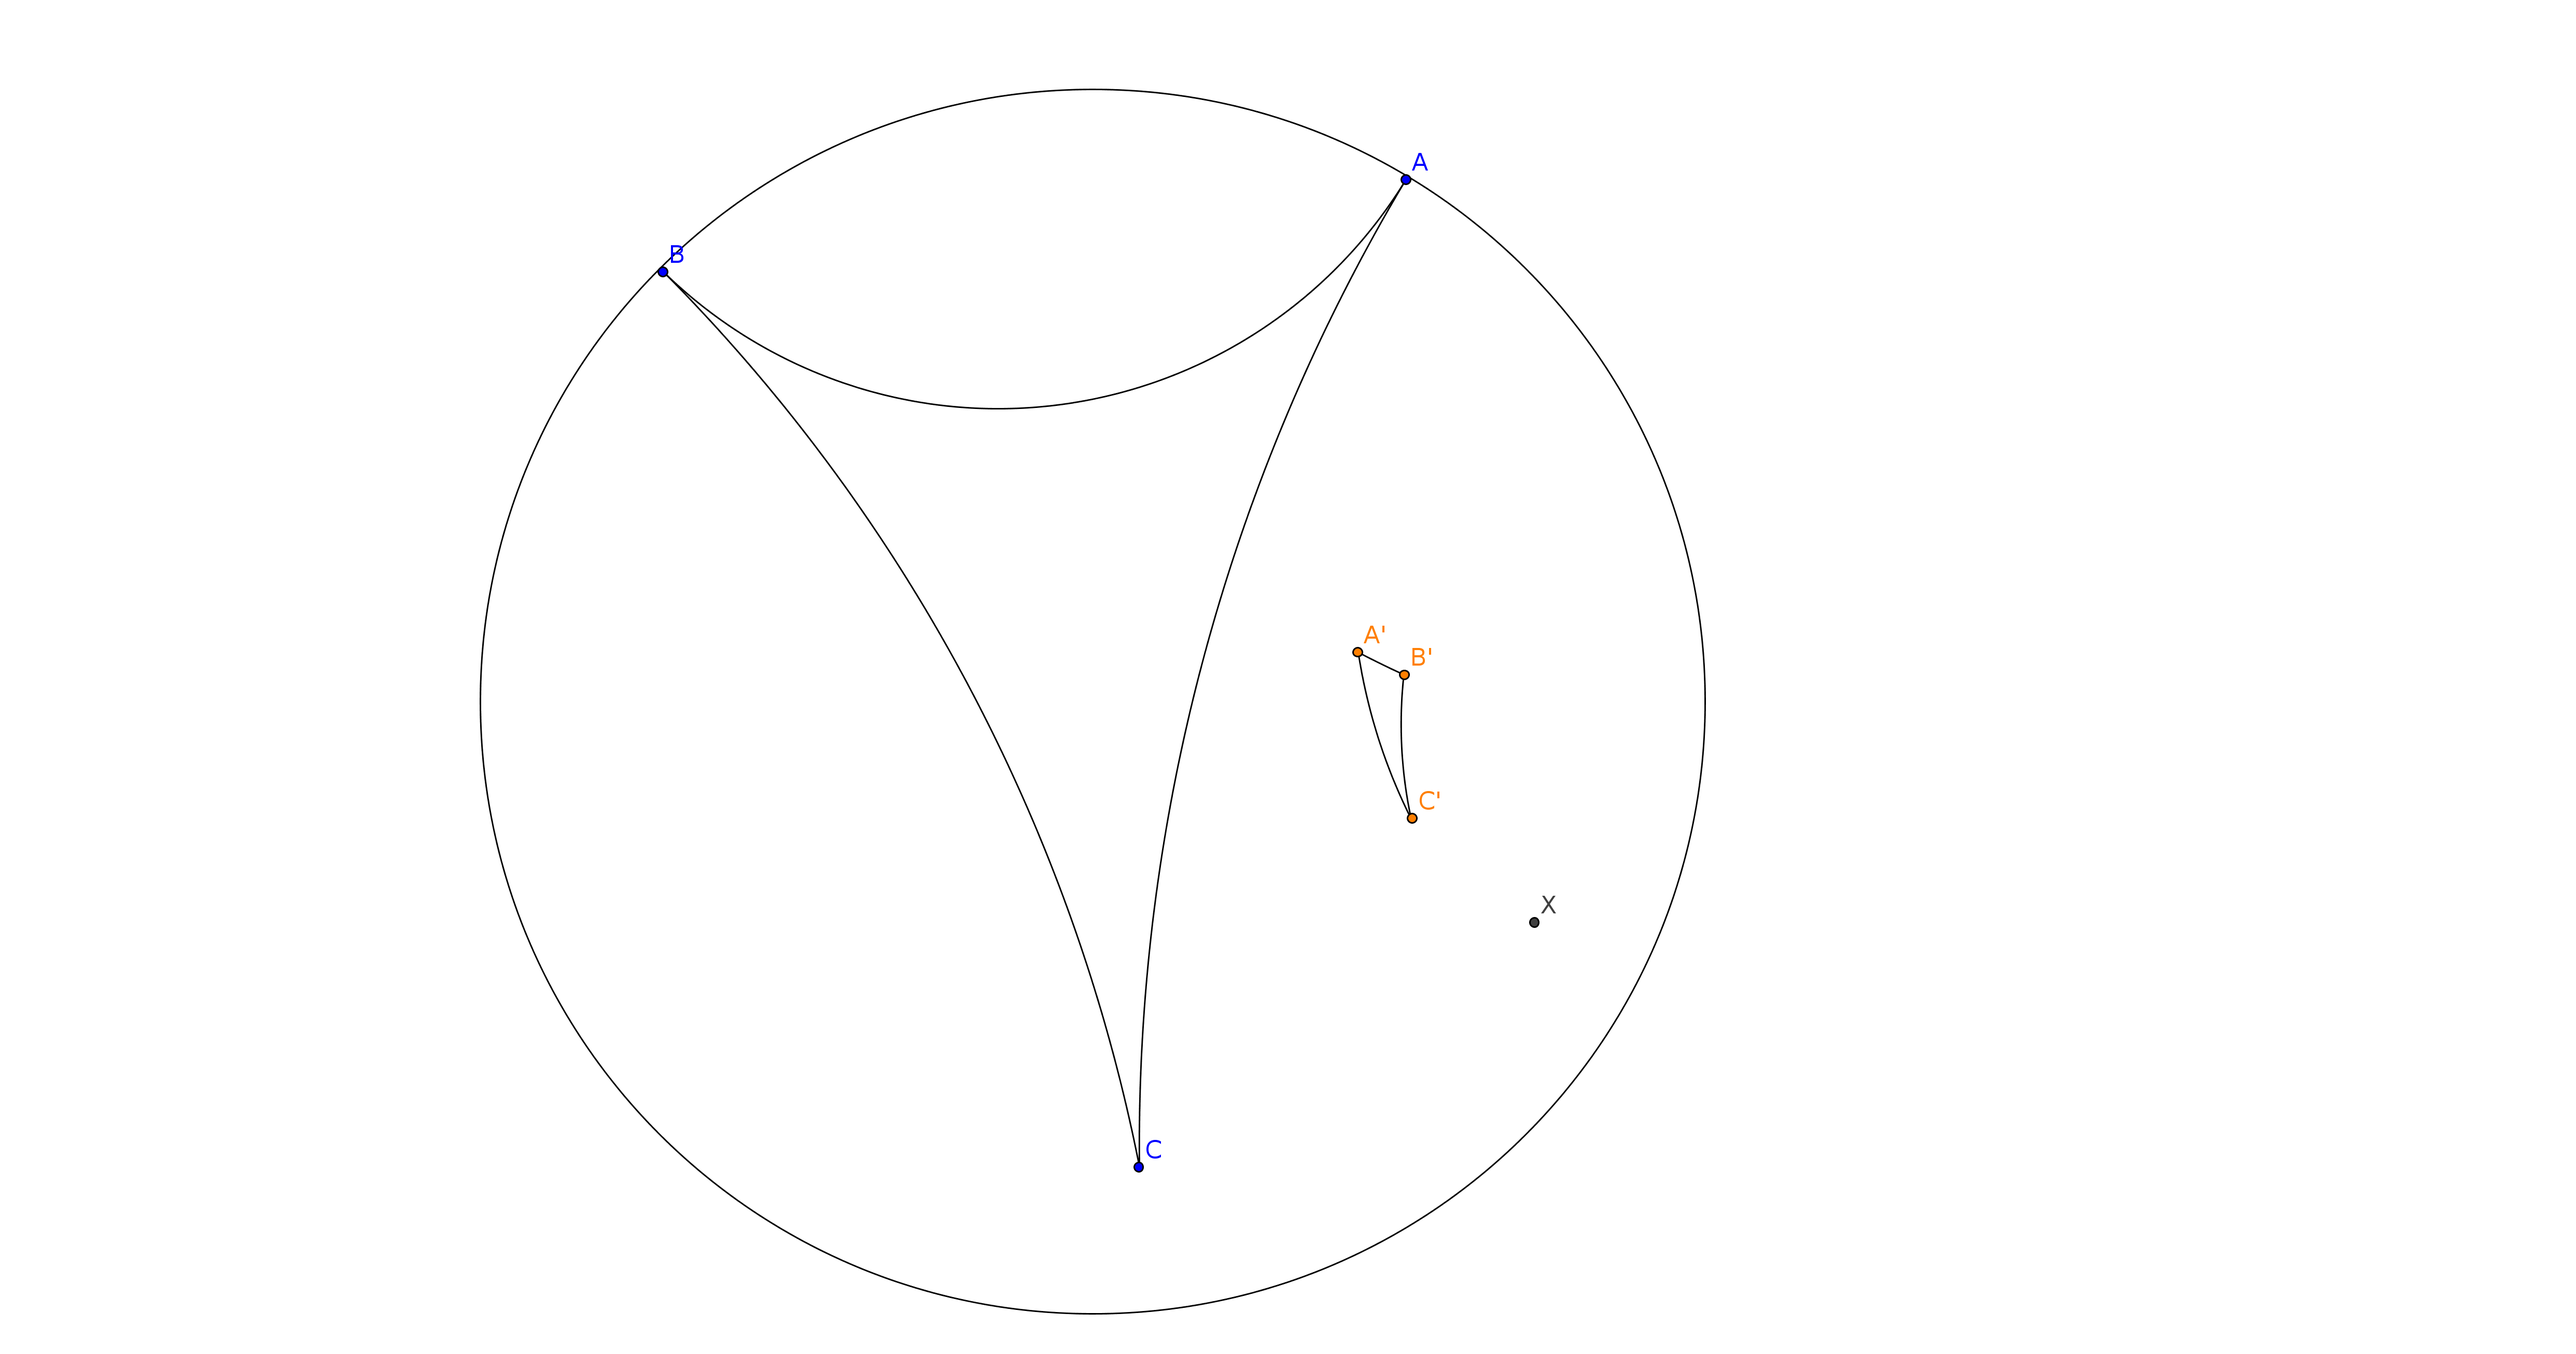
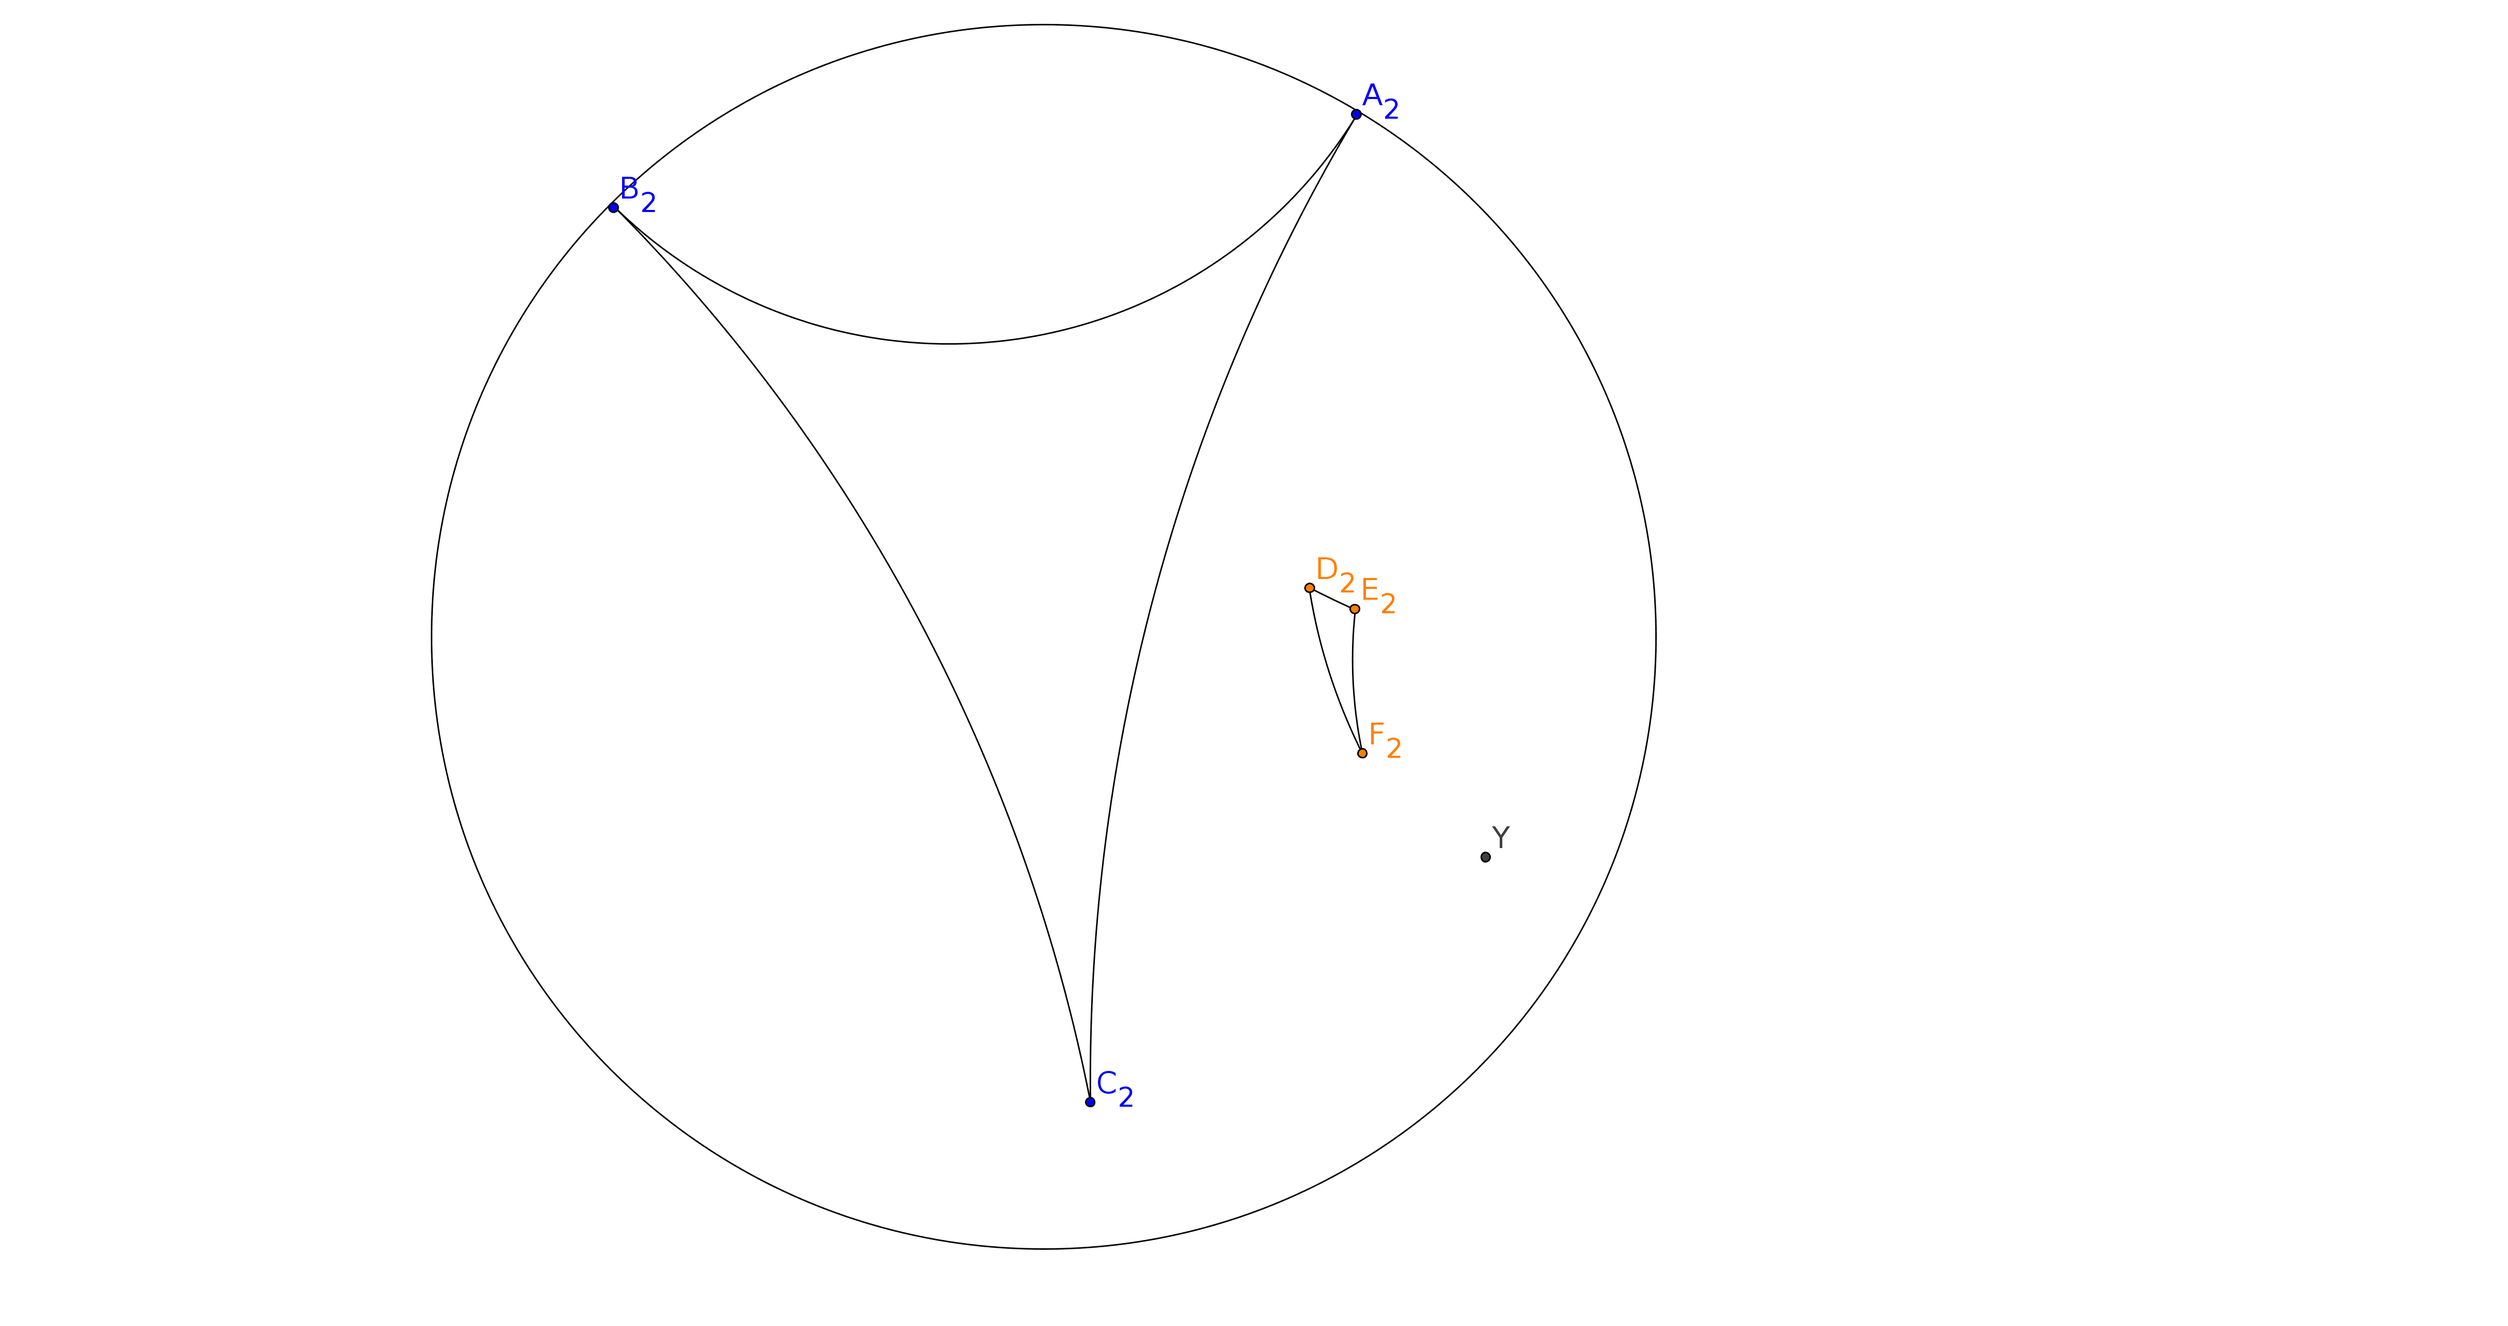
updated images and todo and reviewed sections 2,3,4

diff --git a/paper/MAT317_paper.tex b/paper/MAT317_paper.tex
@@ -187,18 +187,18 @@ Appendix A1 contains further information on the \poincare disk model, particular
 	
 \section{Notation}
 	
-\hspace{10mm} We first set forth the notation we will use throughout our paper. In general, we will denote the coordinates of points in the plane as $(x \ttc y) \ttc (x' \ttc y')$, etc. As discussed later, such points will be in the interior of our \poincare disk. On the other hand, points defining lines (which lie outside of the \poincare disk) will be denoted $(l_1 \ttc l_2) \ttc (l_1' \ttc l_2')$, etc. 
+\hspace{10mm} We first set forth the notation we will use throughout our paper. In general, we will denote the coordinates of points in the plane as $(x \ttc y) \ttc (x' \ttc y')$, etc. As discussed later, such points will be in the interior of our \poincare disk. On the other hand, points defining lines (which should lie outside of the \poincare disk) will be denoted $(l_1 \ttc l_2) \ttc (l_1' \ttc l_2')$, etc. 
 
 The general linear fractional transformations, point reflections, and line reflections we discuss will begin with coefficients in a real, ordered field $F$ with the property that every positive $x \in F$ has a square root. The group\footnote{TODO: Cite class notes about this being a group.} of hyperbolic transformations over $F$ are those linear fractional transformations given by
 \begin{equation} 
 	z \mapsto \frac{az+b}{cz+d} \text{ where } z \in \C, \hspace{2mm} a \ttc b \ttc c \ttc d \in F \text{ and } ad-bc \neq 0. 
 \end{equation}
-For convenience, we will encode our transformations of the above form into matrices
+under function composition. For convenience, we will encode our transformations of form (1) into matrices
 \begin{equation}
 	\lambda \stanlftmat \text{ where } \lambda \ttc a \ttc b \ttc c \ttc d \in F \text{ and } \lambda \neq 0. 
 \end{equation}
 
-It should be explicitly noted that these matrices are used only to encode our transformations\footnote{See Appendix \ref{appendixC}.}. That is, to ``apply" a transformation encoded the matrix in (2) to a point $z_0 \in \C$, we mean that we will apply a corresponding linear fractional transformation $f$ defined by (1) to the point $z_0$. 
+It should be explicitly noted that these matrices are used only to encode our transformations\footnote{See Appendix \ref{appendixC}.}. That is, to ``apply" a transformation encoded the matrix in (2) to a point $z_0$ in the Poincare disk, we mean that we will apply a corresponding linear fractional transformation $f$ defined by (1) to the point $z_0$. 
 
 Because all linear fractional transformations we will use are of the form given in (2), whenever we say ``matrix" we are referring to a $2 \times 2$ matrix. 
 
@@ -264,7 +264,7 @@ Let $(x \ttc y)$ be a point in the \poincare disk. Then, for the matrix encoding
 \end{equation}	
 As mentioned, we choose to associate each point reflection with a unique point in the disk. It follows that our points are given uniquely by $(x \ttc y) \in F^2$ inside the convex domain of the parabola $x = y^2$.
 
-To be clear, we are not mapping this parabola to the unit disk. Similarly, we are neither mapping the points within the parabola to those in the \poincare disk nor those outside the parabola to outside the disk. Rather, we are classifying the points in $F^2$ into three disjoint subsets: those that will be in the interior of the \poincare disk (those in the convex domain defined by the parabola $x = y^2$, those that will be on the \poincare disk itself (those on the parabola $x = y^2$), and those that will be outside of the \poincare disk (those neither inside nor on the parabola $x = y^2$). This process -- while valid in certain fields like $R$ -- is geometrically unintuitive and problematic in other fields. These issues will be discussed further in the next section. 
+To be clear, we are not mapping this parabola to the unit disk. Similarly, we are neither mapping the points within the parabola to those in the \poincare disk nor those outside the parabola to outside the disk. Rather, we are classifying the points in $F^2$ into three disjoint subsets: those that will be in the interior of the \poincare disk (those in the convex domain defined by the parabola $x = y^2$, those that will be on the \poincare disk itself (those on the parabola $x = y^2$), and those that will be outside of the \poincare disk (those neither inside nor on the parabola $x = y^2$). This process -- while valid in certain fields like $\R$ -- is geometrically unintuitive and problematic in other fields. These issues will be discussed further in the next section. 
 
 Next, we define $F_*$ to be the extension of $F$ by $\infty$ as usual\footnote{TODO: Elaborate in the appendix.}. We define an end of our geometry to be the points on our parabola, namely those pairs $(x \ttc y) \in F_*^2$ where $y = x^2$. We follow Guggenheimer in simply claiming that the end $\specialend$ is of particular interest to us in our classification of line reflections. In particular, the reflection over a line $l$ given by $(l_1\ttc l_2)$ that does not pass through the end $\specialend$ can be encoded in the matrix
 \[\stanlinenoendmat\]
@@ -320,9 +320,8 @@ With this in hand, we go forth to develop and visualize examples of these transf
 
 \section{Examples in $F = \R$}
 
-\hspace{10mm} We choose $\R$ to be our real, ordered field as called for in Guggenheimer's paper and go forth to visualize some examples of transformations in the \poincare disk. We work with two triangles and two points about which each of them will be reflected\footnote{See Appendix C for the coode}. Triangle $T_1$ is given by the points $A_1 = 0 + 0i$, $B_1 = 1 + 0i$, and $C_1 = 0 + 1i$. Triangle $T_2$ is given by the points $A_2 = 3 + 5i$, $B_2 = -4 + 4i$, and $C_2 = 2 - 2i$. The points about which we will perform our reflections are $X = (2, 1)$ and $Y = (2, -1)$.
+\hspace{10mm} We choose $\R$ to be our real, ordered field as called for in Guggenheimer's paper and go forth to visualize some examples of transformations in the \poincare disk. We work with two triangles and two points about which each of them will be reflected\footnote{See Appendix C for the coode}. Triangle $T_1$ is given by the points $A_1 = 0 + 0i$, $B_1 = 1 + 0i$, and $C_1 = 0 + 1i$. Triangle $T_2$ is given by the points $A_2 = 3 + 5i$, $B_2 = -4 + 4i$, and $C_2 = 0.2 - 2i$. The points about which we will perform our reflections are $X = (2, -1)$ and $Y = (2, 1)$.
 
-\iffalse
 \begin{tabular}{cc}
  \includegraphics[width=65mm]{../images/triangle-1-point-reflection-2--1.png} & \includegraphics[width=65mm]{../images/triangle-1-point-reflection-2-1.png} \\
 Triangle $T_1$ over point $X$ & Triangle $T_1$ over point $Y$  \\
@@ -330,7 +329,6 @@ Triangle $T_1$ over point $X$ & Triangle $T_1$ over point $Y$  \\
 \includegraphics[width=65mm]{../images/triangle-2-point-reflection-2--1.png} & \includegraphics[width=65mm]{../images/triangle-2-point-reflection-2-1.png}\\
 Triangle $T_2$ over point $X$ & Triangle $T_2$ over point $Y$  \\
 \end{tabular}
-\fi
 
 From these diagrams we notice two oddities that we will discuss in turn. 
 
